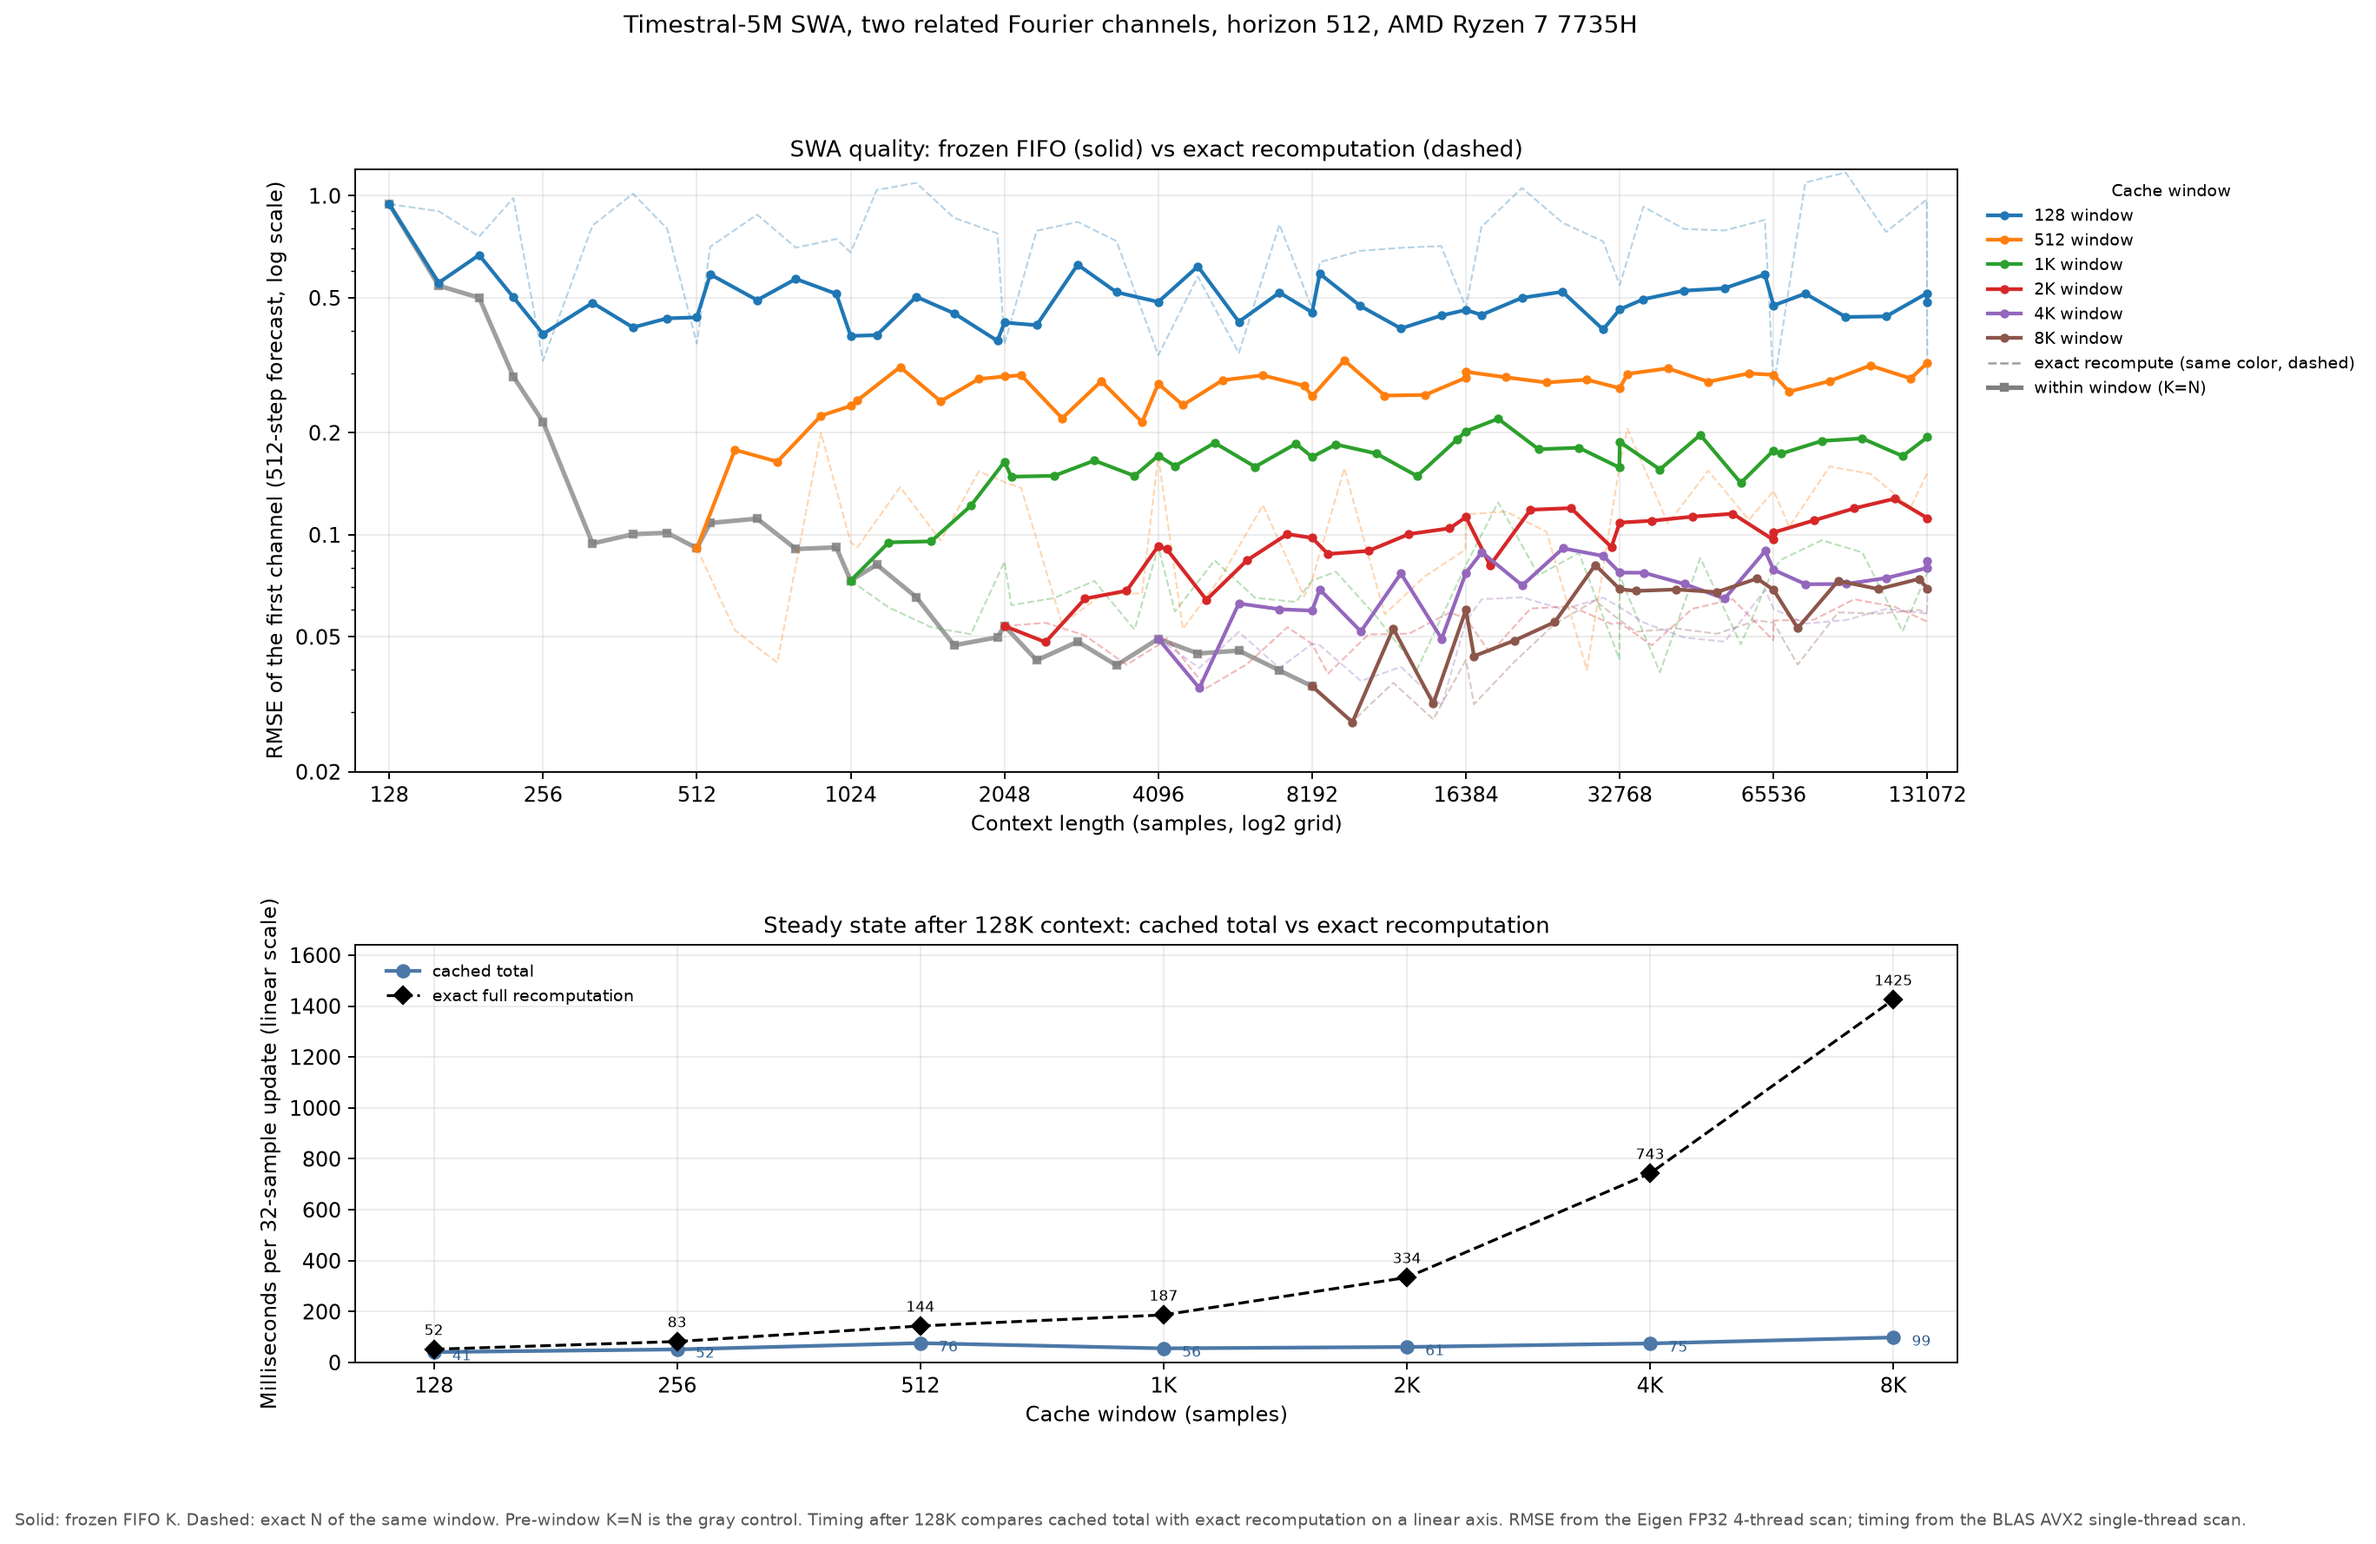
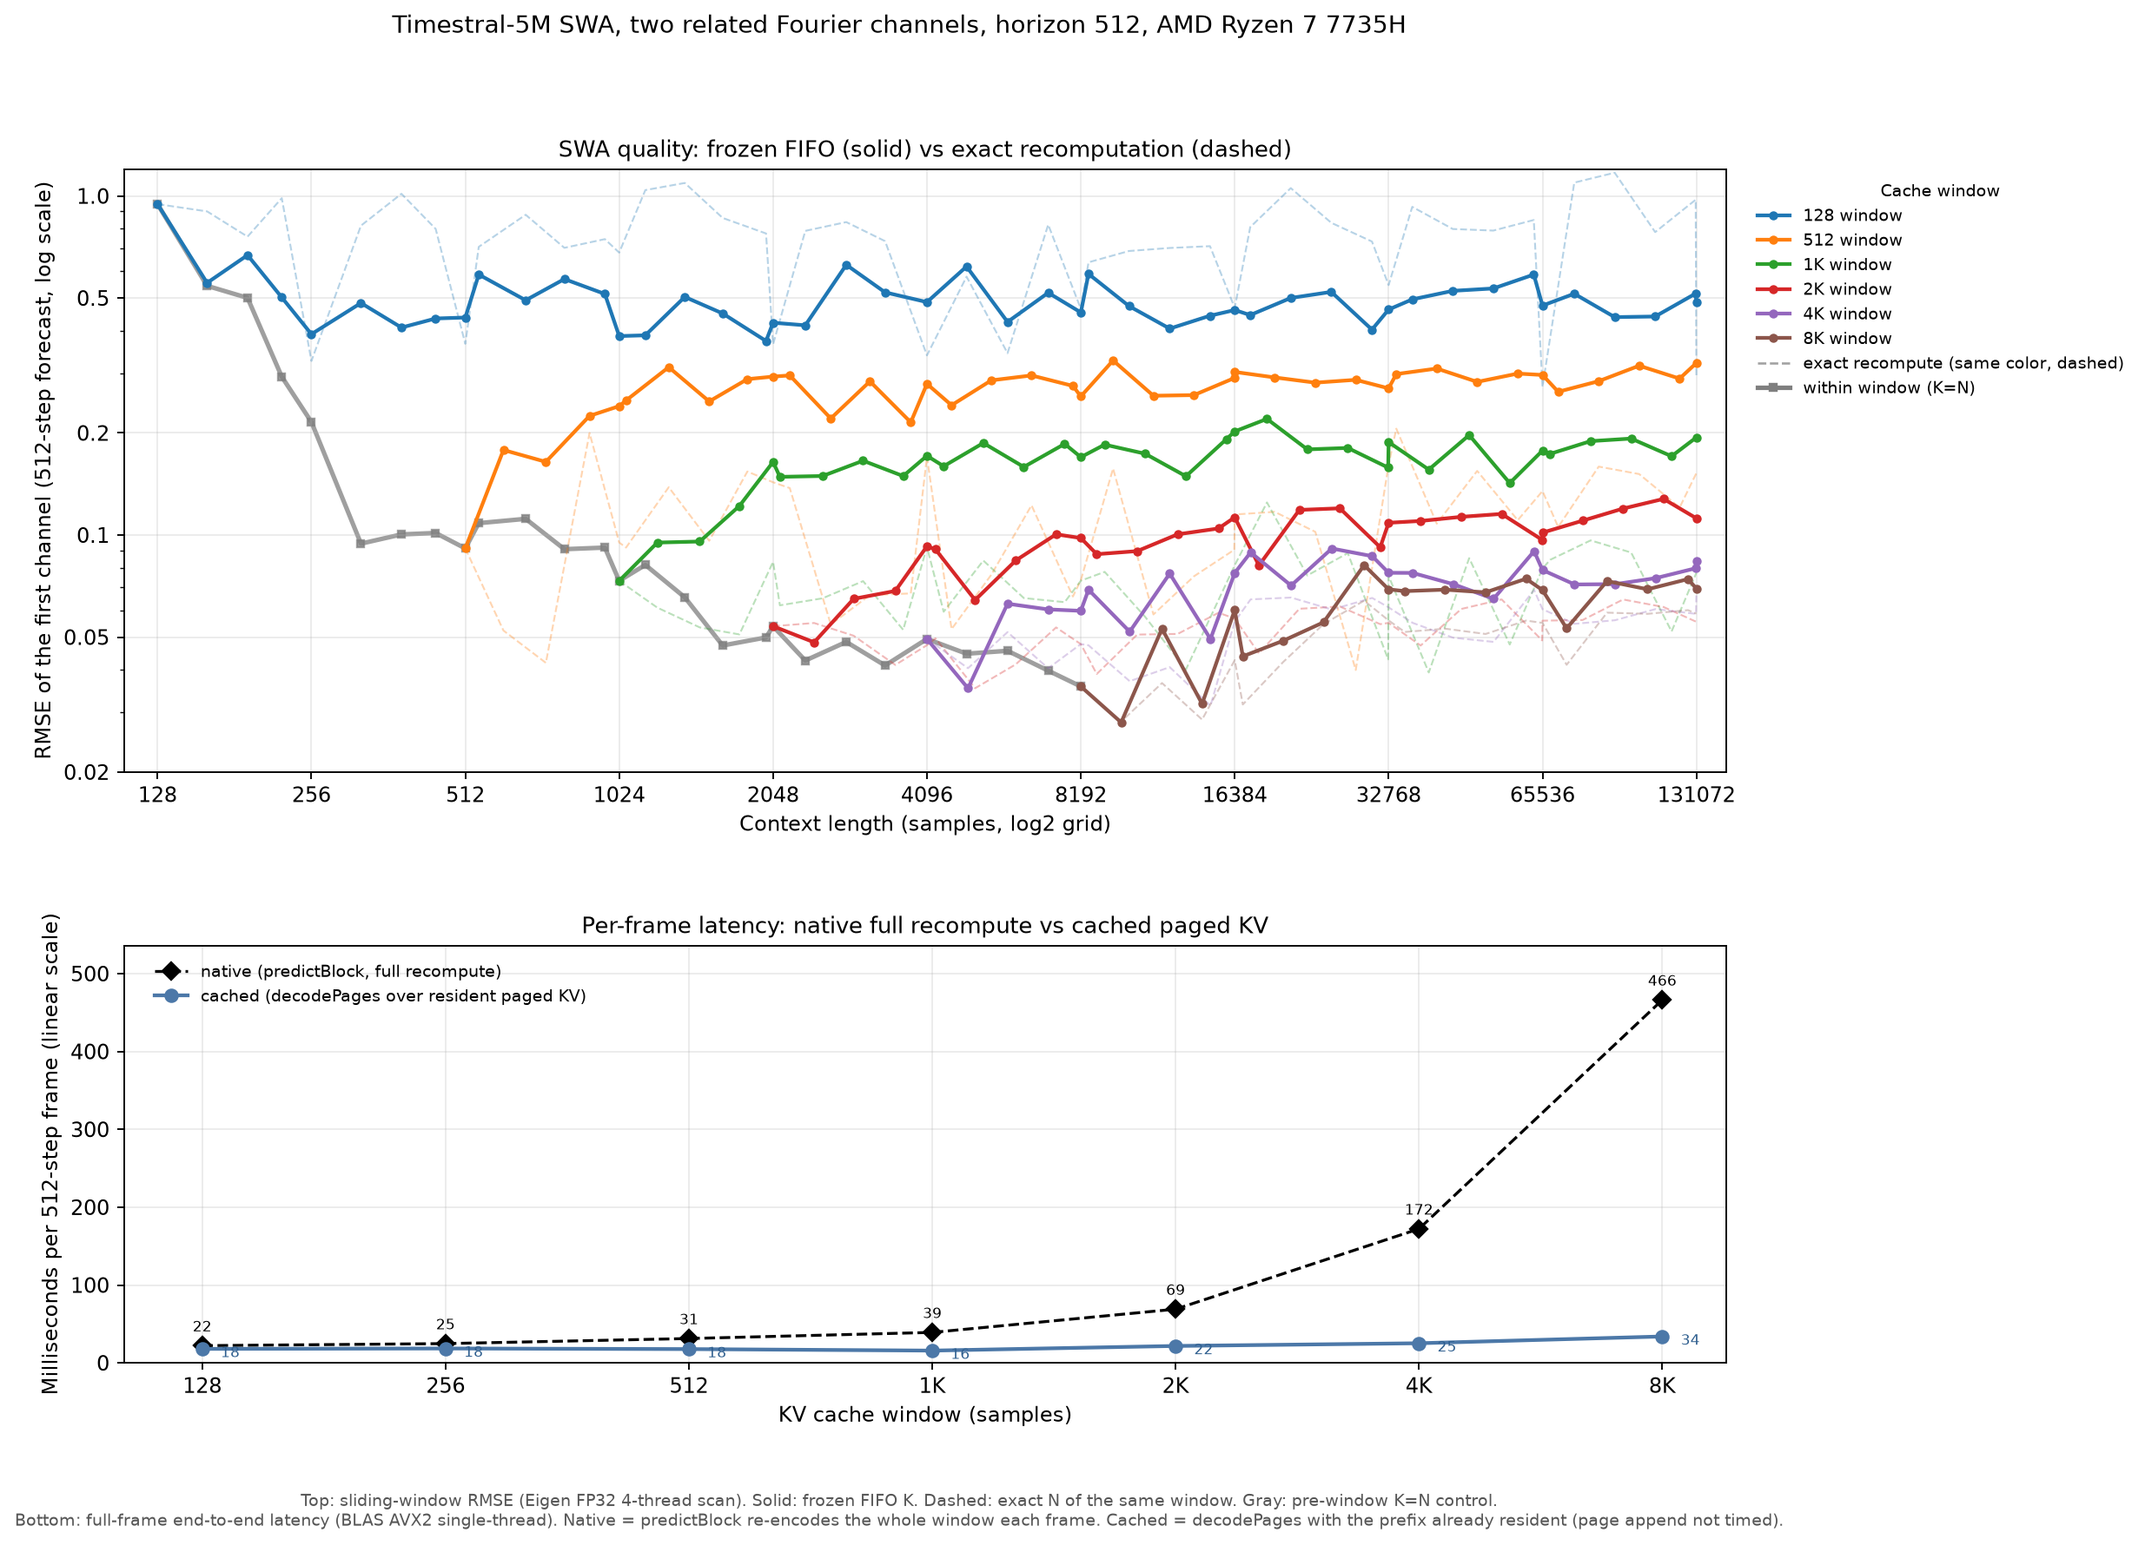
docs: use full-frame production timing in the SWA figure

diff --git a/doc/inference.md b/doc/inference.md
@@ -103,19 +103,19 @@ $$
 
 扫描工具（本地工具 `example-tools/swaBench.cpp`，不入库）在128、512、1k、2k、4k、8k六个窗口上把共同历史推进到131072点，每到一个约1.2倍步长的上下文重新计算一次第一通道的512步预测，并与同窗口的原生全量重算对照。测量条件：真实5M、两个相关的傅里叶通道、100Hz、幅值噪声0.03、horizon=512（16个patch）、每个位置1patch反馈，关闭对称平均和非负截断。K为冻结共同历史KV并由FIFO淘汰最老页，N为按观测布局分段的原生重算；RMSE只统计未观测的预测位置，与无噪声reference比较。
 
-| 窗口 | K RMSE @128k | N RMSE @128k | K decode ms | append ms | N recompute ms |
+| 窗口 | K RMSE @128k | N RMSE @128k | 原生整帧 ms | 缓存整帧 ms | 倍数 |
 | ---: | ---: | ---: | ---: | ---: | ---: |
-| 128 | 0.484568 | 0.290793 | 40.3 | 0.8 | 52.1 |
-| 256 | 0.314858 | 0.433044 | 50.7 | 0.9 | 82.6 |
-| 512 | 0.321666 | 0.152261 | 74.8 | 1.4 | 143.8 |
-| 1k | 0.194051 | 0.077387 | 54.6 | 1.2 | 187.0 |
-| 2k | 0.112031 | 0.055461 | 59.9 | 1.2 | 334.1 |
-| 4k | 0.083611 | 0.067024 | 73.1 | 1.9 | 743.2 |
-| 8k | 0.069494 | 0.058639 | 96.1 | 2.5 | 1425.4 |
+| 128 | 0.484568 | 0.290793 | 22.1 | 18.0 | 1.2 |
+| 256 | 0.314858 | 0.433044 | 24.7 | 18.5 | 1.3 |
+| 512 | 0.321666 | 0.152261 | 31.3 | 17.7 | 1.8 |
+| 1k | 0.194051 | 0.077387 | 39.1 | 15.8 | 2.5 |
+| 2k | 0.112031 | 0.055461 | 69.0 | 21.7 | 3.2 |
+| 4k | 0.083611 | 0.067024 | 172.1 | 25.2 | 6.8 |
+| 8k | 0.069494 | 0.058639 | 466.2 | 33.9 | 13.8 |
 
 ![SWA窗口扫描](<../assets/swa-rmse.png>)
 
-RMSE列来自既有Eigen FP32四线程扫描，时延列为BLAS AVX2单线程在同一信号与协议下的重测（补上256窗口）；256行的RMSE来自本次BLAS运行，与Eigen扫描相差约1e-5。时延是窗口已满后每次推进32个采样点的中位数（5次）：K decode只含读取缓存后的512步解码，append是生成并追加一个新patch页，N是同一窗口的原生512步全量重算。它们不是首次预填充成本，也不含模型加载。硬件为AMD Ryzen 7 7735H、MSVC Release，换机器或换线程数后需要重测。原始数据（RMSE表、BLAS时延表、未滑动控制）在本地工作区保留。
+RMSE列与曲线来自既有Eigen FP32四线程扫描，每个位置1patch反馈。时延列是另一次按正常生产工况的重测，不属于该扫描：BLAS AVX2单线程，同样的双通道信号，horizon=512（16个patch，每patch预测32点），一帧完成全部512步预测。原生整帧是`predictBlock`，不使用缓存，每帧重新编码整个窗口；缓存整帧是`decodePages`，窗口前缀已经驻留在分页KV中，只计这一帧的解码，前缀的`appendPages`不在计时内。两条路径在同一帧粒度下数值一致（8k窗口RMSE 0.0723576对0.0723589）。取3次中位数，计时前各预热1次，不含模型加载。硬件为AMD Ryzen 7 7735H、MSVC Release，换机器或换线程数后需要重测。原始数据（RMSE表、整帧时延表、未滑动控制）在本地工作区保留。
 
 未滑动控制线（8192窗口只推进到该点，K=N）：
 
@@ -128,7 +128,7 @@ RMSE列来自既有Eigen FP32四线程扫描，时延列为BLAS AVX2单线程在
 - 灰色控制线是8192窗口但只推进到8192的未滑动区段，K与N在浮点归约误差内一致，它显示纯容量效应：128点约0.95，256点约0.21，320点约0.094，672点附近回升到约0.11，随后再降到8192点的约0.036，不是单调的根号曲线。控制线显式包含512、1024、2048、4096、8192各窗口起点，各彩色K曲线从自己的起点接上这条线，之后才进入淘汰区。
 - 512窗口下，K在context=512时RMSE约0.09，刚开始淘汰后升到0.14至0.25，随后在0.25至0.33之间波动并持续到128k；同一窗口的N在0.04至0.21之间波动。
 - 这个信号上没有出现误差随上下文线性爆炸：K在滑动后进入平台，128k时仍与2k至8k上下文处的平台同一量级。平台不能解释成误差不累积，它依赖信号平稳性和旧页仍携带有用信息；512窗口信号叠加5×sin(0.03t)低频漂移后K从0.046升到0.367，足以否定普遍保证。
-- 窗口越大，K越接近N，但缓存解码也更慢：8k窗口的K decode约96ms，N约1425ms，约14.8倍；512窗口的K约75ms，N约144ms。省下的主要是重复前缀编码，窗口内注意力读取成本仍要付出。
+- 窗口越大，K越接近N，但缓存解码也更慢：缓存整帧从128窗口的18ms缓慢升到8k窗口的34ms，原生整帧则从22ms升到466ms，8k窗口约13.8倍；512窗口为17.7ms对31.3ms。省下的主要是重复前缀编码，窗口内注意力读取成本仍要付出，小窗口下两者差距不大。
 - 模型context_length是32768个采样点，不代表流只能到32k，这里128k是流长度，每次前向仍只看window。长流可行不等于模型获得无限感受野，也不等于旧页信息仍然正确。
 
 结论：SWA适合显式选择的质量/时延折中，不能默认替换精确重算。需要默认精度时使用原生路径，需要受限预算时可用BLAS单线程或用`threads`限制Eigen线程，但后端与线程数不改变上述近似误差。保留首个token作为attention sink的设想已记录在本地滑窗记录，尚未实现。

diff --git a/README.md b/README.md
@@ -107,7 +107,7 @@ Single variable, in milliseconds.
 
 A two-channel signal advances to 128k, forecasting 512 points each time. The frozen FIFO is an explicit approximation and is off by default.
 
-![Sliding window RMSE curves and update time once the window is full](<assets/swa-rmse.png>)
+![Sliding window RMSE curves and per-frame latency, native full recompute vs cached paged KV](<assets/swa-rmse.png>)
 
 ### Short forecasts and decode block size
 

diff --git a/README_zh.md b/README_zh.md
@@ -107,7 +107,7 @@ Timestral-5M，3次取中位，关闭对称平均与非负截断；ar每轮1patc
 
 双通道信号推进到128k，每次预测512点。冻结FIFO是显式近似，默认不启用。
 
-![滑动窗口RMSE曲线和窗口满后的更新耗时](<assets/swa-rmse.png>)
+![滑动窗口RMSE曲线，以及原生整帧重算与缓存整帧的单帧耗时](<assets/swa-rmse.png>)
 
 ### 短预测精度与解码块大小
 
